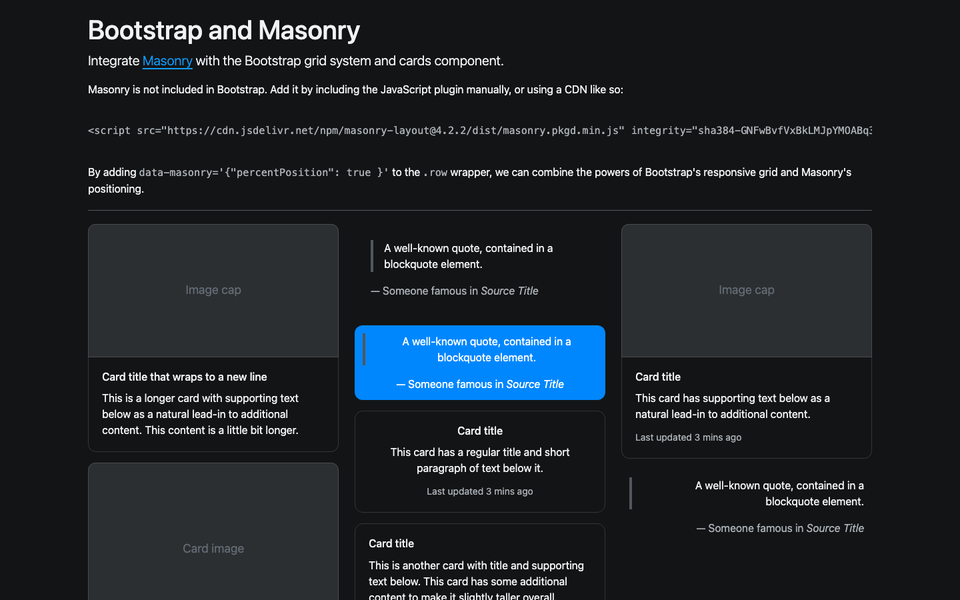
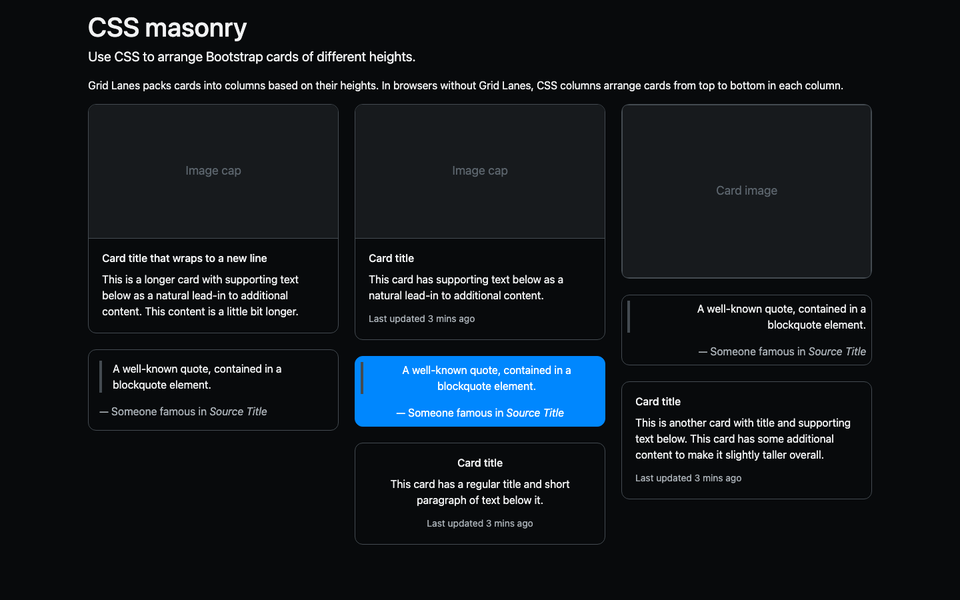
fix(docs): replace Masonry.js with native CSS
The Masonry example lost its gutters after the grid switched to CSS gap.
Use CSS columns to set the gaps and keep each card together. Enable Grid
Lanes where supported to pack cards based on their heights.

Move the example to Snippets and refresh its thumbnails.

diff --git a/site/src/assets/examples/masonry/masonry.css b/site/src/assets/examples/masonry/masonry.css
@@ -1,0 +1,36 @@
+.masonry-gallery {
+  --bs-gallery-columns: 1;
+  --bs-gallery-gap: var(--bs-spacer-4, 1.5rem);
+
+  columns: var(--bs-gallery-columns);
+  column-gap: var(--bs-gallery-gap);
+}
+
+.masonry-gallery > .card {
+  margin-block-end: var(--bs-gallery-gap);
+  break-inside: avoid;
+}
+
+@media (width >= 576px) {
+  .masonry-gallery {
+    --bs-gallery-columns: 2;
+  }
+}
+
+@media (width >= 992px) {
+  .masonry-gallery {
+    --bs-gallery-columns: 3;
+  }
+}
+
+@supports (display: grid-lanes) {
+  .masonry-gallery {
+    display: grid-lanes;
+    grid-template-columns: repeat(var(--bs-gallery-columns), minmax(0, 1fr));
+    gap: var(--bs-gallery-gap);
+  }
+
+  .masonry-gallery > .card {
+    margin-block-end: 0;
+  }
+}
